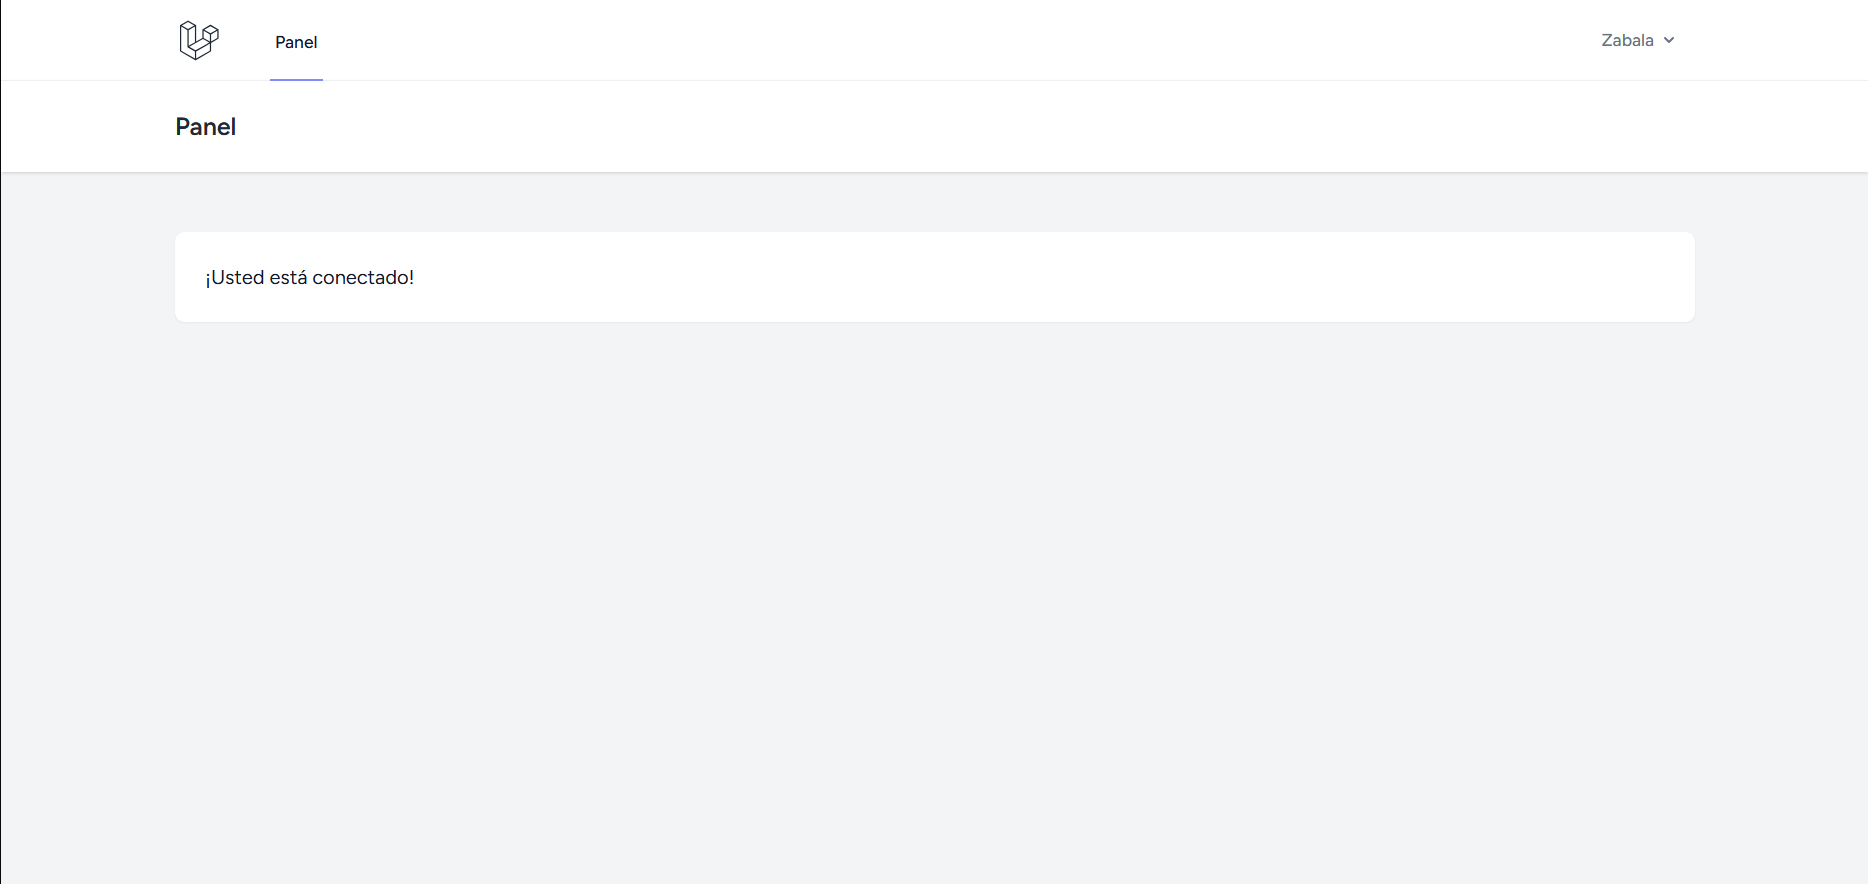
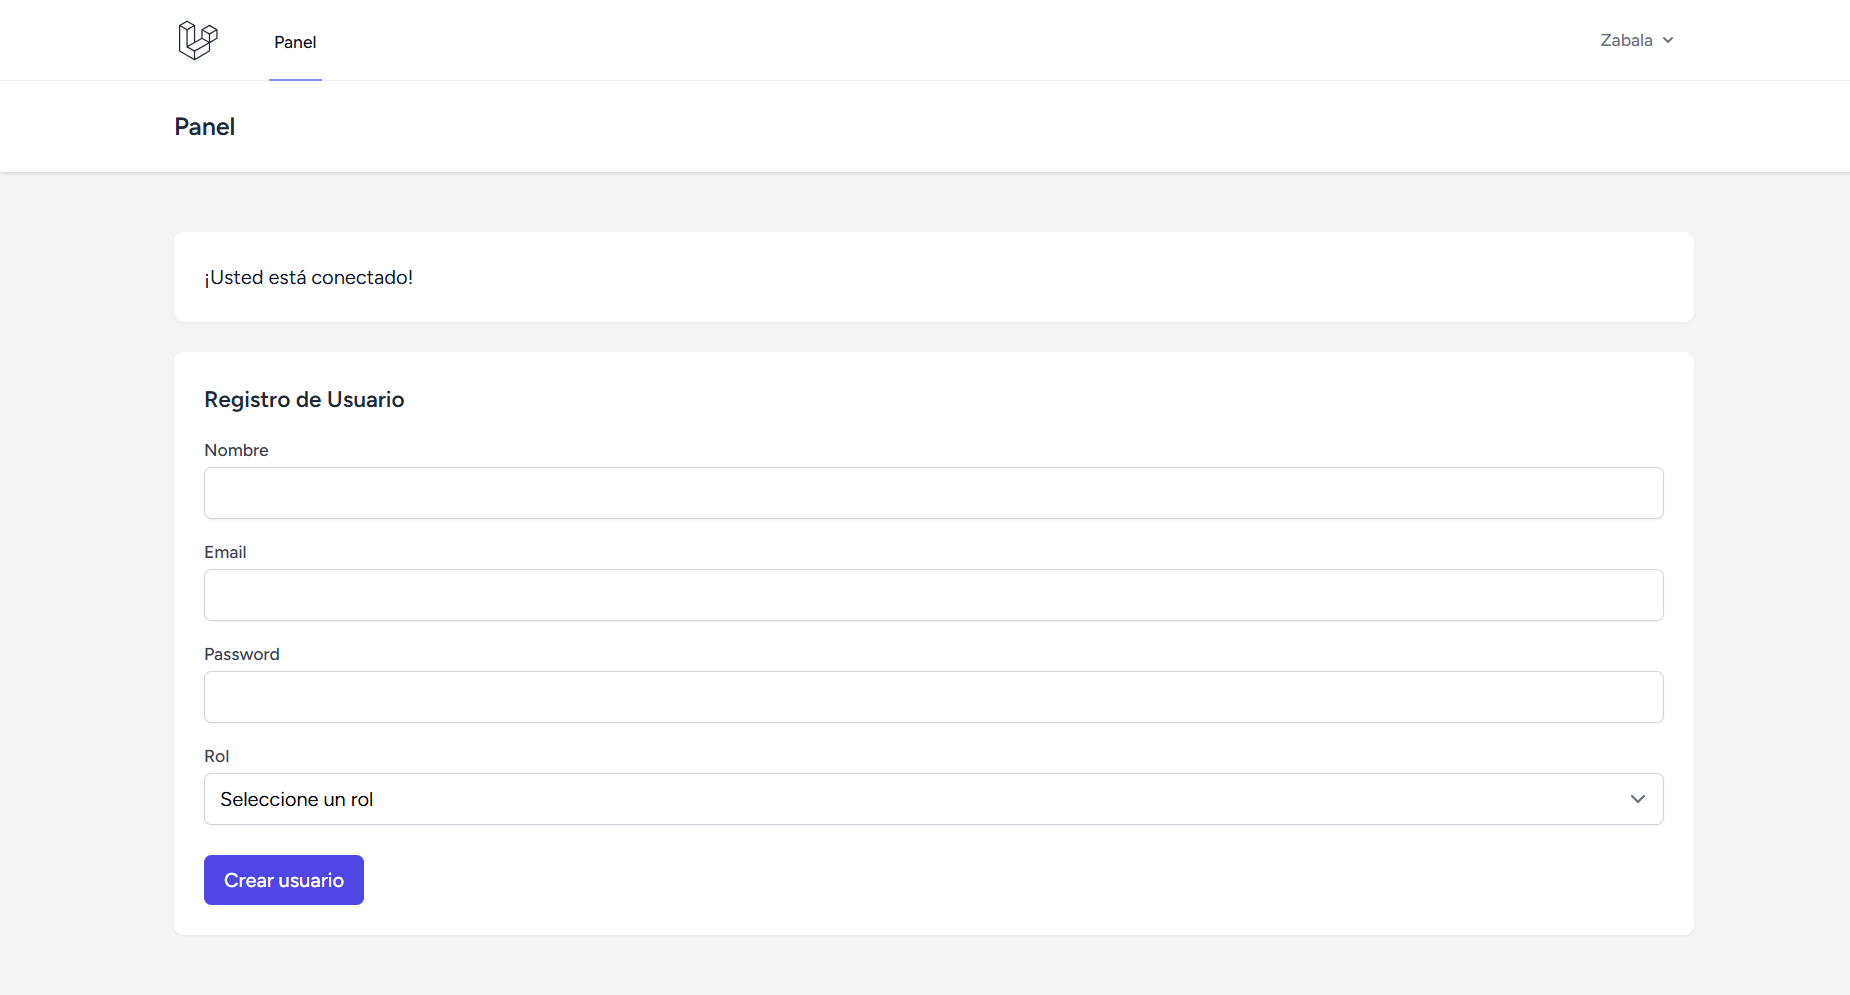
feat(admin): add user creation form

diff --git a/resources/views/admin/dashboard.blade.php b/resources/views/admin/dashboard.blade.php
@@ -6,12 +6,108 @@
     </x-slot>
 
     <div class="py-12">
-        <div class="max-w-7xl mx-auto sm:px-6 lg:px-8">
+        <div class="max-w-7xl mx-auto sm:px-6 lg:px-8 space-y-6">
+
+            {{-- INFO CARD --}}
             <div class="bg-white overflow-hidden shadow-sm sm:rounded-lg">
                 <div class="p-6 text-gray-900">
                     {{ __("You're logged in!") }}
                 </div>
             </div>
+
+            {{-- SUCCESS MESSAGE --}}
+            @if (session('success'))
+                <div class="bg-green-50 border border-green-200 text-green-700 px-4 py-3 rounded">
+                    {{ session('success') }}
+                </div>
+            @endif
+            {{-- ERROR MESSAGE --}}
+            @if (session('error'))
+                <div class="bg-red-50 border border-red-200 text-red-700 px-4 py-3 rounded">
+                    {{ session('error') }}
+                </div>
+            @endif
+
+            {{-- USER REGISTER CARD --}}
+            <div class="bg-white overflow-hidden shadow-sm sm:rounded-lg">
+                <div class="p-6">
+
+                    <h3 class="text-lg font-semibold text-gray-800 mb-4">
+                        Registro de Usuario
+                    </h3>
+
+                    <form method="POST" action="{{ route('admin.users.store') }}" class="space-y-4"
+                        x-data="{ loading: false }" @submit="loading = true">
+
+                        @csrf
+
+                        <div>
+                            <label class="block text-sm font-medium text-gray-700">
+                                Nombre
+                            </label>
+                            <input type="text" name="name" value="{{ old('name') }}"
+                                class="mt-1 block w-full rounded-md border-gray-300 shadow-sm focus:border-indigo-500 focus:ring-indigo-500">
+                            @error('name')
+                                <p class="text-sm text-red-600 mt-1">{{ $message }}</p>
+                            @enderror
+                        </div>
+
+                        <div>
+                            <label class="block text-sm font-medium text-gray-700">
+                                Email
+                            </label>
+                            <input type="email" name="email" value="{{ old('email') }}"
+                                class="mt-1 block w-full rounded-md border-gray-300 shadow-sm focus:border-indigo-500 focus:ring-indigo-500">
+                            @error('email')
+                                <p class="text-sm text-red-600 mt-1">{{ $message }}</p>
+                            @enderror
+                        </div>
+
+                        <div>
+                            <label class="block text-sm font-medium text-gray-700">
+                                Password
+                            </label>
+                            <input type="password" name="password"
+                                class="mt-1 block w-full rounded-md border-gray-300 shadow-sm focus:border-indigo-500 focus:ring-indigo-500">
+                            @error('password')
+                                <p class="text-sm text-red-600 mt-1">{{ $message }}</p>
+                            @enderror
+                        </div>
+
+                        <div>
+                            <label class="block text-sm font-medium text-gray-700">
+                                Rol
+                            </label>
+
+                            <select name="role"
+                                class="mt-1 block w-full rounded-md border-gray-300 shadow-sm focus:border-indigo-500 focus:ring-indigo-500">
+
+                                <option value="">Seleccione un rol</option>
+                                <option value="client" {{ old('role') === 'client' ? 'selected' : '' }}>
+                                    Cliente
+                                </option>
+                                <option value="admin" {{ old('role') === 'admin' ? 'selected' : '' }}>
+                                    Administrador
+                                </option>
+                            </select>
+
+                            @error('role')
+                                <p class="text-sm text-red-600 mt-1">{{ $message }}</p>
+                            @enderror
+                        </div>
+
+                        <div class="pt-2">
+                            <button type="submit"
+                                class="bg-indigo-600 hover:bg-indigo-700 text-white font-medium px-4 py-2 rounded-md"
+                                :disabled="loading" x-text="loading ? 'Creando...' : 'Crear usuario'">
+                                Crear usuario
+                            </button>
+                        </div>
+
+                    </form>
+                </div>
+            </div>
+
         </div>
     </div>
 </x-app-layout>

diff --git a/app/Http/Controllers/AdminUserController.php b/app/Http/Controllers/AdminUserController.php
@@ -1,0 +1,58 @@
+<?php
+
+namespace App\Http\Controllers;
+
+use App\Http\Controllers\Controller;
+
+use Illuminate\Http\Request;
+
+// MODEL
+use App\Models\User;
+
+// HASH
+use Illuminate\Support\Facades\Hash;
+
+// EXCEPTIONS
+use Illuminate\Database\QueryException;
+use Throwable;
+
+class AdminUserController extends Controller
+{
+    public function store(Request $request)
+    {
+        // 1. Validación
+        $validated = $request->validate([
+            'name' => ['required', 'string'],
+            'email' => ['required', 'email', 'unique:users,email'],
+            'password' => ['required', 'string', 'min:6'],
+            'role' => ['required', 'in:client,admin'],
+        ]);
+
+        // 2. Limpieza (trim)
+        $validated = array_map('trim', $validated);
+
+        // 3. Guardar usuarios
+        try {
+            User::create([
+                'name' => $validated['name'],
+                'email' => $validated['email'],
+                'password' => Hash::make($validated['password']),
+                'role' => $validated['role'],
+            ]);
+
+            return back()->with('success', 'Usuario creado correctamente');
+
+        } catch (QueryException $e) {
+            // Error de base de datos (conexión, constraint, etc.)
+            return back()
+                ->withInput()
+                ->with('error', 'No se pudo conectar con la base de datos. Intenta nuevamente.');
+
+        } catch (Throwable $e) {
+            // Cualquier otro error inesperado
+            return back()
+                ->withInput()
+                ->with('error', 'Ocurrió un error inesperado al crear el usuario. Intenta nuevamente.');
+        }
+    }
+}

diff --git a/routes/web.php b/routes/web.php
@@ -1,5 +1,6 @@
 <?php
 
+use App\Http\Controllers\AdminUserController;
 use App\Http\Controllers\ProfileController;
 use Illuminate\Support\Facades\Route;
 
@@ -12,10 +13,14 @@ Route::get('/contact', function () {
     return view('client.contact');
 })->name('contact');
 
+
 // === ADMIN ===
 Route::get('/dashboard', function () {
     return view('admin.dashboard');
 })->middleware(['auth', 'verified', 'admin'])->name('dashboard');
+
+Route::post('/dashboard/users', [AdminUserController::class, 'store'])->name('admin.users.store');
+
 
 // == PROFILE ==
 Route::middleware('auth')->group(function () {
